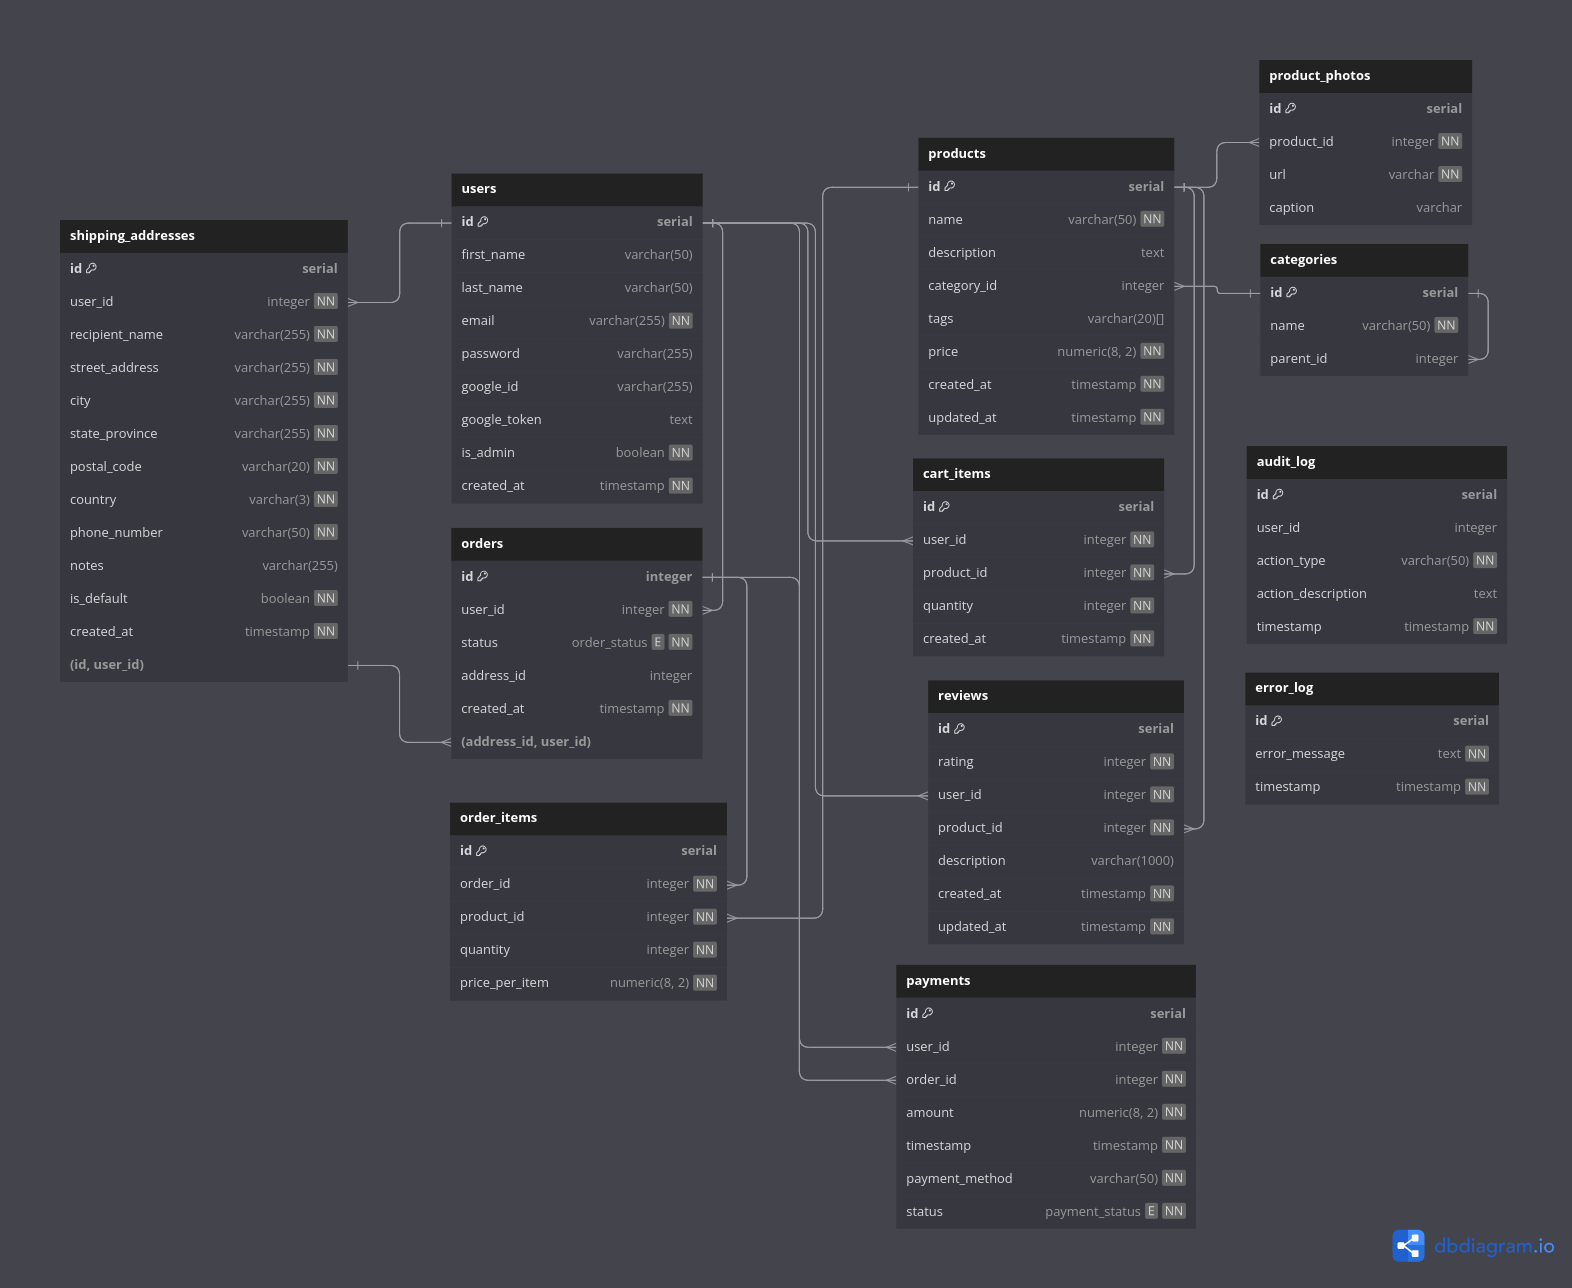
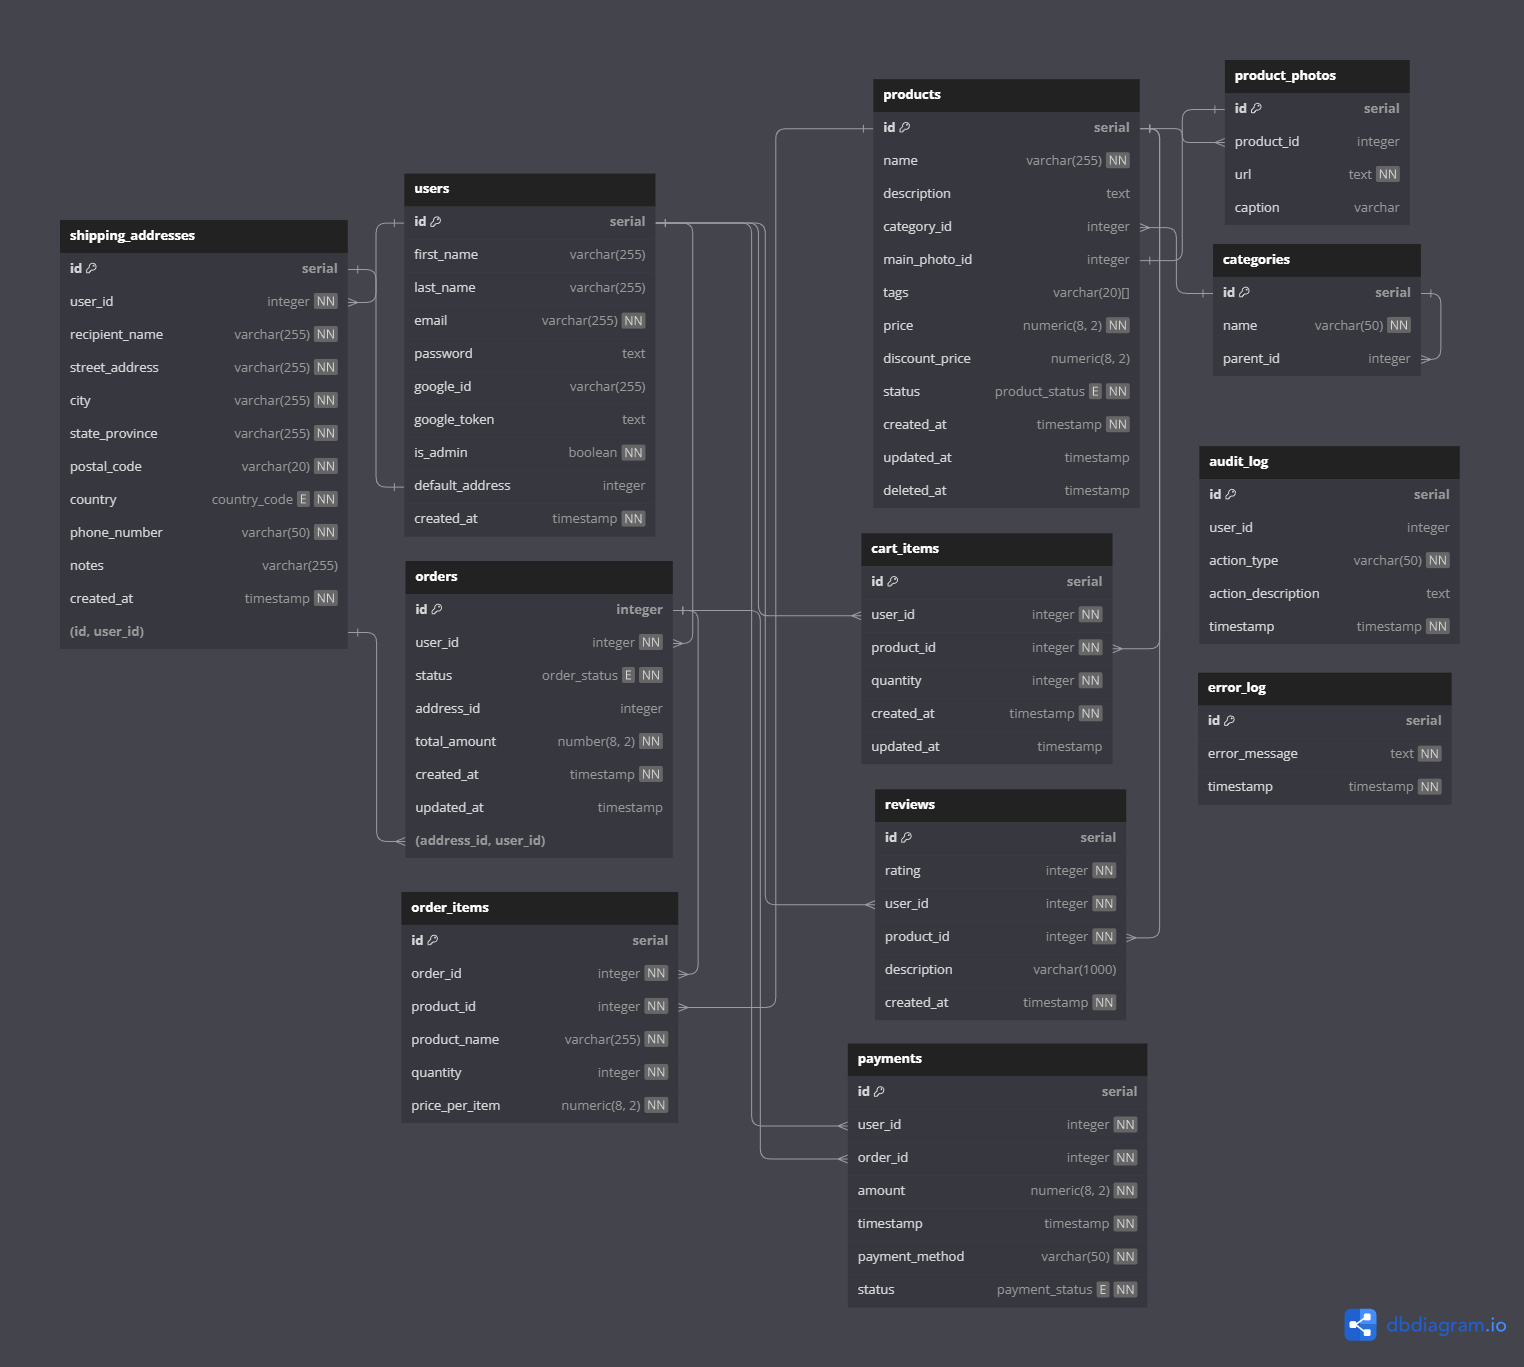
Update database, started api design

Changed region(s): [[0.4934, 0.0311, 0.956, 0.9627], [0.0308, 0.1242, 0.5243, 0.8075], [0.8635, 0.9317, 0.9869, 0.9938]]

diff --git a/test/db.test.js b/test/db.test.js
@@ -1,3 +1,5 @@
+/* eslint no-undef: 0 */
+
 const assert = require('assert');
 const { query } = require('../db');
 
@@ -9,8 +11,11 @@ const tablesToCheck = [
       'name',
       'description',
       'category_id',
+      'main_photo_id',
       'tags',
       'price',
+      'discount_price',
+      'status',
       'created_at',
       'updated_at',
       'deleted_at',
@@ -35,6 +40,7 @@ const tablesToCheck = [
       'google_id',
       'google_token',
       'is_admin',
+      'default_address',
       'created_at',
     ],
   },
@@ -51,7 +57,6 @@ const tablesToCheck = [
       'country',
       'phone_number',
       'notes',
-      'is_default',
       'created_at',
       'deleted_at',
     ],
@@ -63,6 +68,7 @@ const tablesToCheck = [
       'user_id',
       'status',
       'address_id',
+      'total_amount',
       'created_at',
       'updated_at',
     ],
@@ -73,6 +79,7 @@ const tablesToCheck = [
       'id',
       'order_id',
       'product_id',
+      'product_name',
       'quantity',
       'price_per_item',
     ],

diff --git a/scripts/create-tables.js b/scripts/create-tables.js
@@ -1,3 +1,5 @@
+/* eslint no-console: 0 */
+
 require('dotenv').config();
 const { Client } = require('pg');
 const fs = require('fs');
